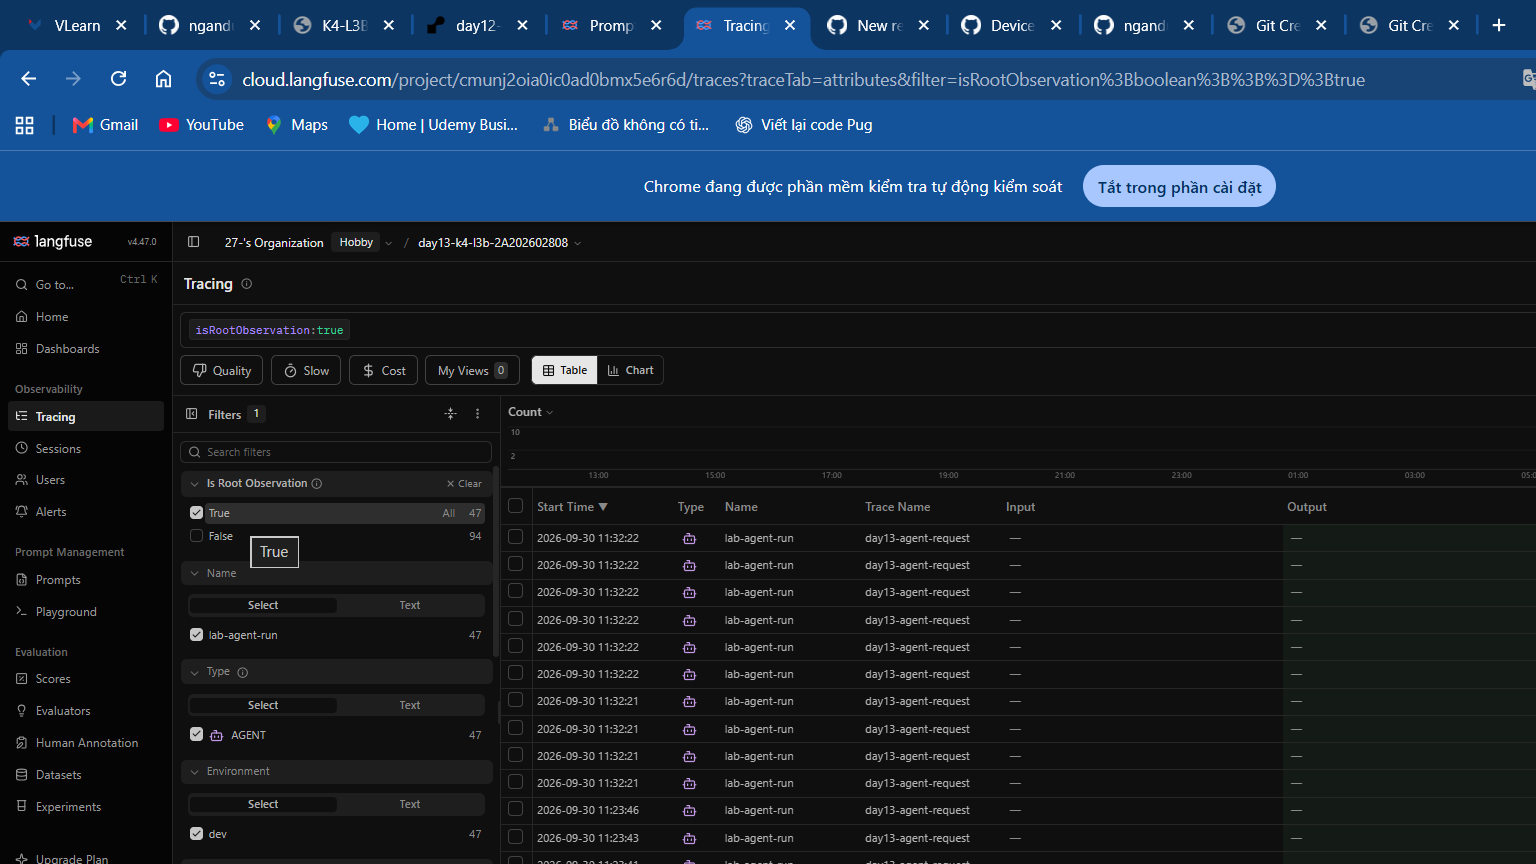
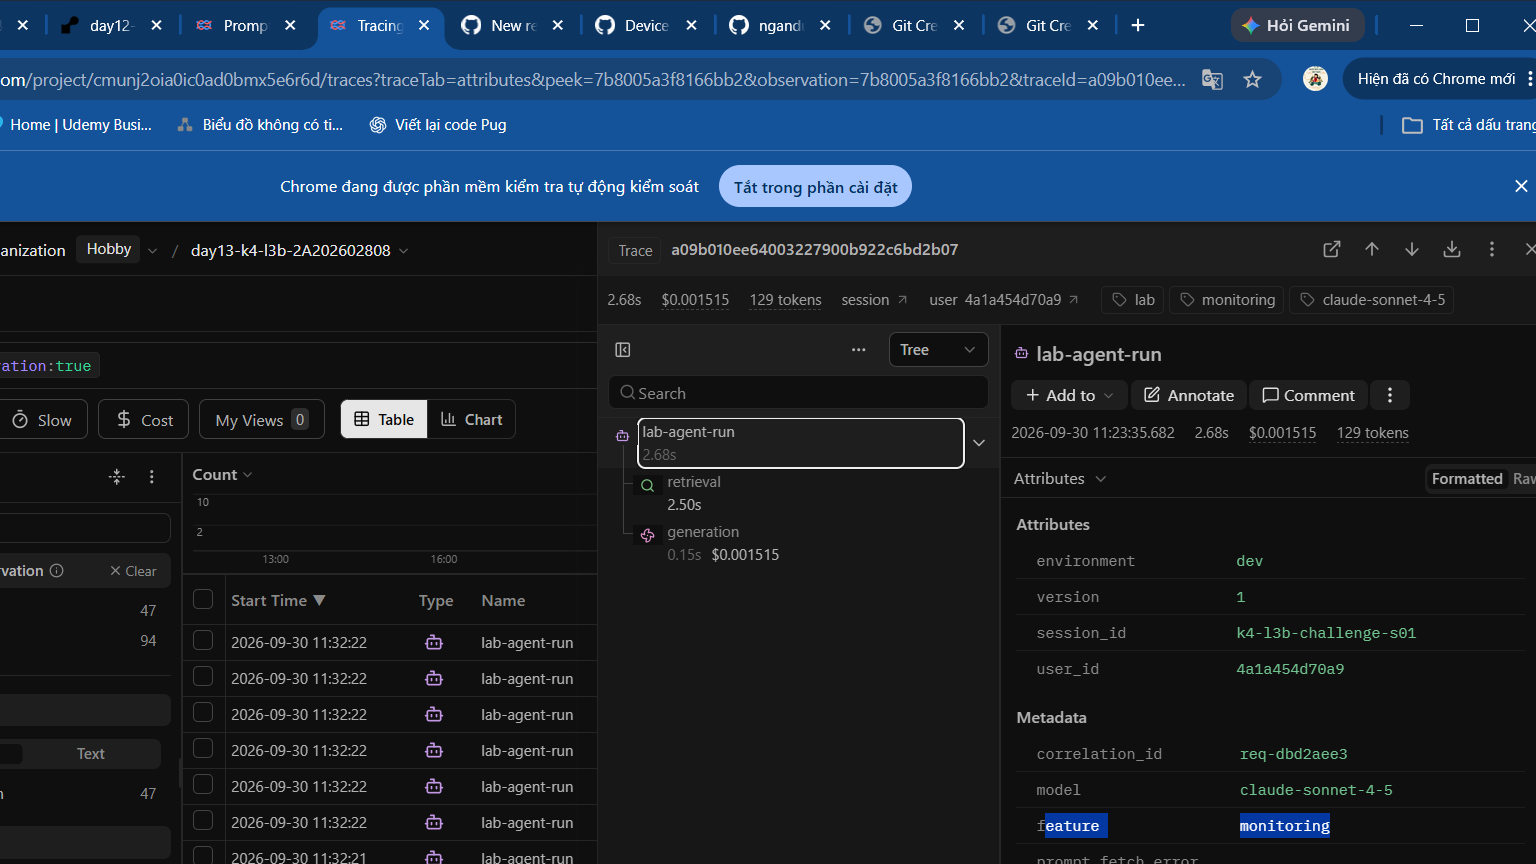
docs: strengthen incident evidence

diff --git a/submission/REPORT.md b/submission/REPORT.md
@@ -36,8 +36,8 @@ Giữ đúng ba output text và năm ảnh dưới đây. Không tách thêm ả
 | `pytest` | Chưa chạy trước khi sửa TODO | 22 passed | Python 3.11 |
 | Số traces hợp lệ | 0 | 47 trace gốc / 141 observations | Mỗi trace có agent, retrieval, generation |
 | Số PII leak | Có nguy cơ do scrubber chưa đăng ký | 0 | Validator độc lập xác nhận |
-| Latency P50 / P95 / P99 | Chưa có dữ liệu | 2655 / 2768 / 2768 ms | Cửa sổ dashboard sau workload CP3 chính thức |
-| TTFT P95 | Chưa có dữ liệu | 65 ms | Fake LLM; thấp hơn nhiều so với độ trễ retrieval |
+| Latency P50 / P95 / P99 | Chưa có dữ liệu | 156 / 2671 / 2671 ms | Cửa sổ dashboard 60 phút vẫn chứa workload CP3 chính thức và các request phục hồi |
+| TTFT P95 | Chưa có dữ liệu | 53 ms | Fake LLM; thấp hơn nhiều so với độ trễ retrieval |
 | Retrieval success rate | Chưa có dữ liệu | 100% | Challenge làm retrieval chậm nhưng không làm tool fail |
 
 ## 4. Logging và PII
@@ -68,7 +68,7 @@ Giữ đúng ba output text và năm ảnh dưới đây. Không tách thêm ả
 
 - **Challenge ID:** `day13-k4-l3b-monitoring-llmops-v1`.
 - **Khoảng thời gian:** 2026-09-30 11:23–11:24 (Asia/Ho_Chi_Minh).
-- **Triệu chứng từ metrics:** latency P50/P95/P99 là 2655/2768/2768 ms; error rate vẫn 0% và retrieval success 100%.
+- **Triệu chứng từ metrics:** latency P50/P95/P99 là 156/2671/2671 ms trong cửa sổ gồm cả incident và request phục hồi; error rate vẫn 0% và retrieval success 100%.
 - **Log line:** `response_sent`, `correlation_id=req-dbd2aee3`, `latency_ms=2671`, `tool_name=retrieval`, `tool_success=true`.
 - **Trace:** `a09b010ee64003227900b922c6bd2b07`; root `lab-agent-run` khoảng 2.68 s, retrieval span 2.50 s, generation span khoảng 0.15 s.
 - **Root cause:** challenge bật `rag_slow`, độ trễ nằm ở retrieval; generation, model và tool result không lỗi.
